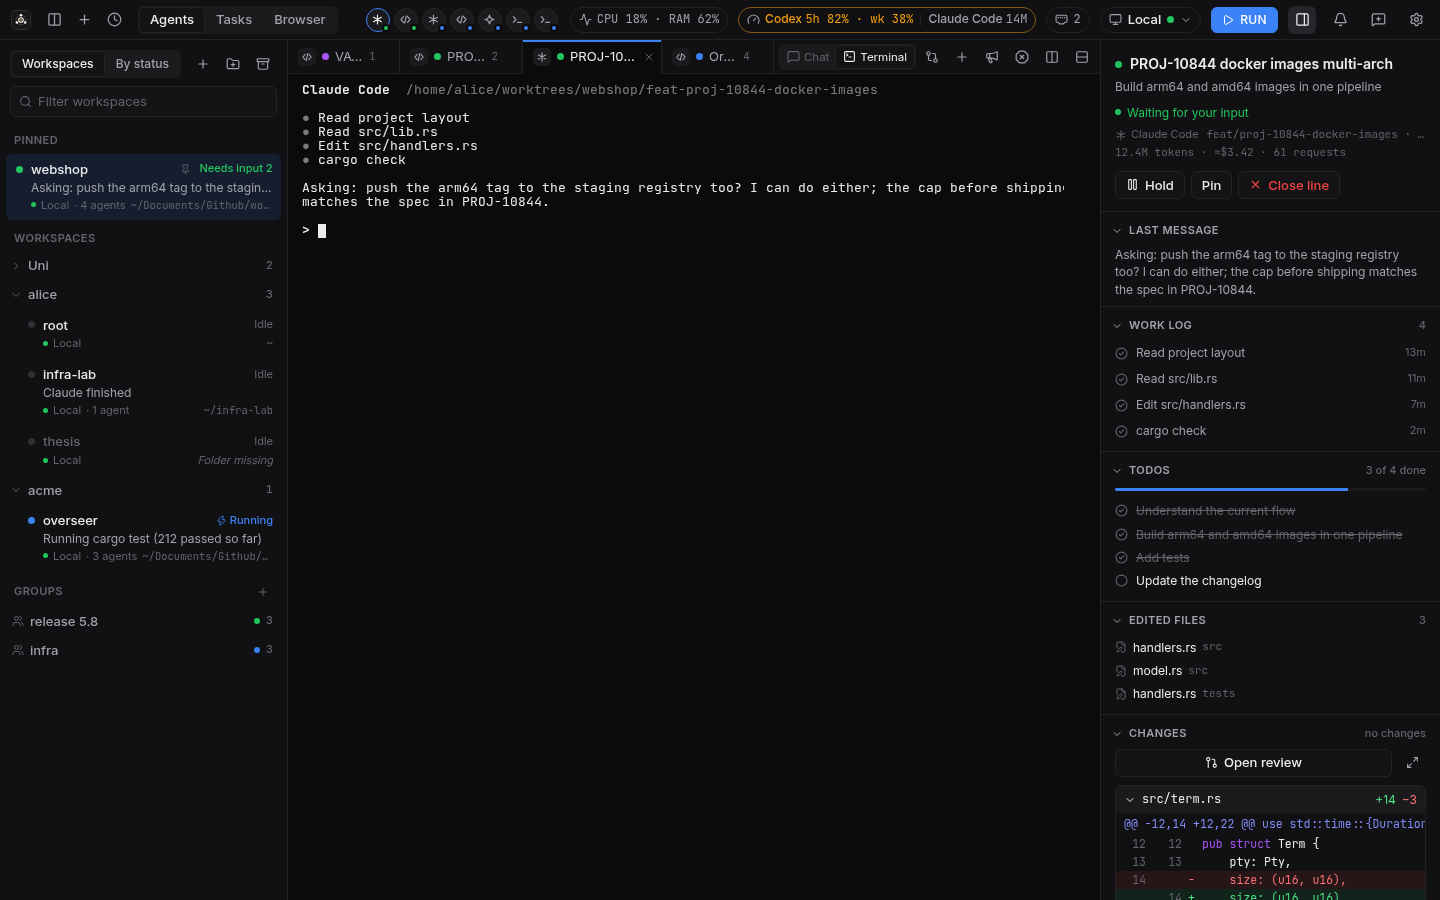
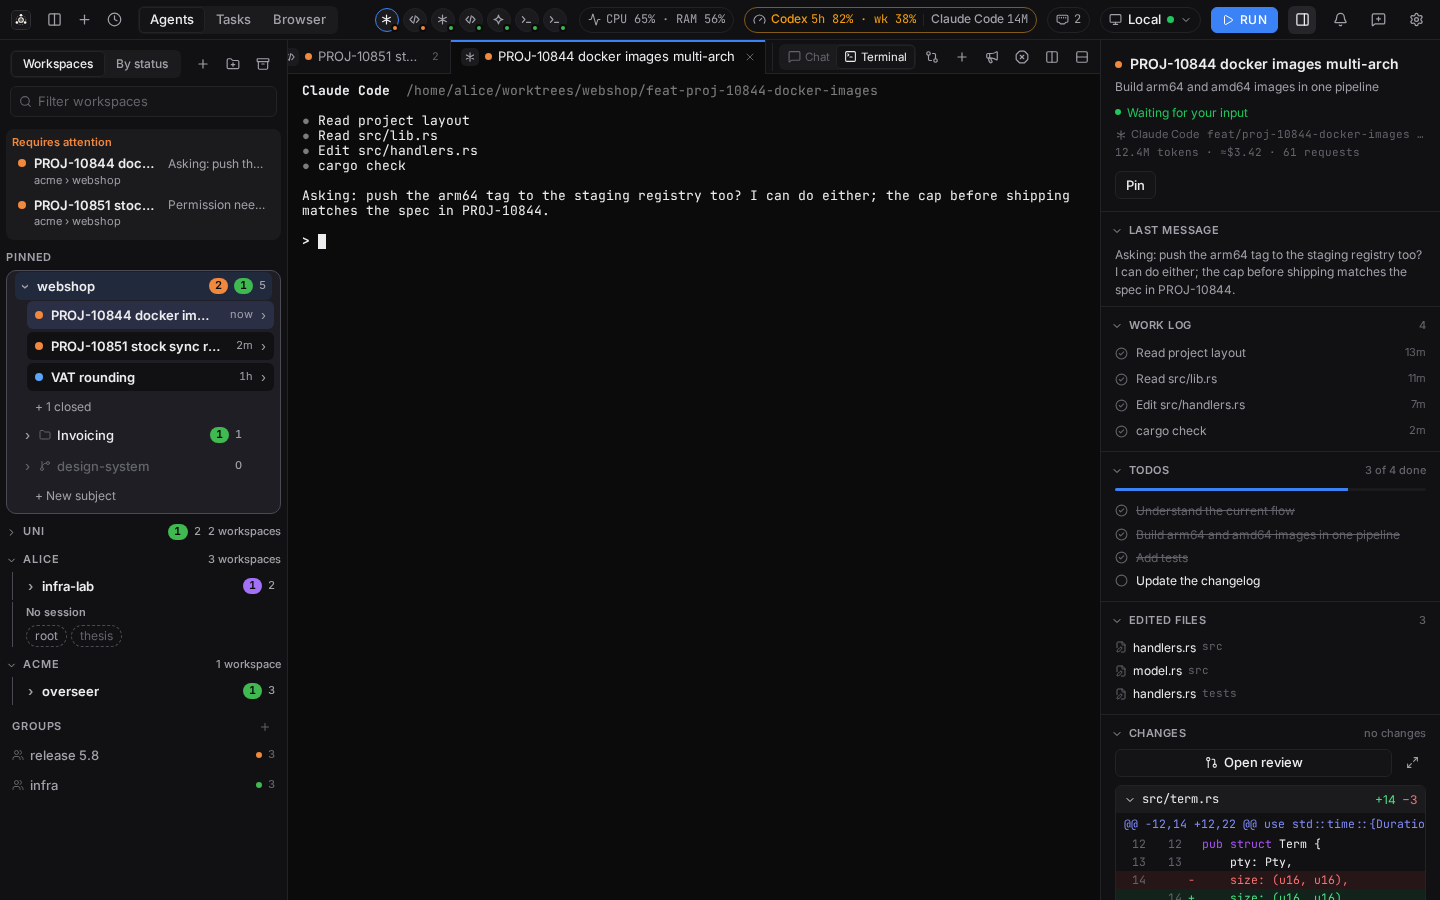
fix(app): keep subjects in view and out of the pin drop zones

diff --git a/app/src/lib/components/sidebar/SpacesView.svelte b/app/src/lib/components/sidebar/SpacesView.svelte
@@ -31,7 +31,8 @@
   const trail = $derived(spaceTrail(app.ws));
   const hk = $derived(hostKey(app.conn.target));
   const saved = $derived(settings.spacesOpen?.[hk]);
-  const opened = $derived(new Set(saved ?? [app.workspaceId]));
+  // The parent of the active nested workspace stays open, so the active one is always in view.
+  const opened = $derived(new Set([...(saved ?? [app.workspaceId]), ...(app.currentWorkspace?.parentId ? [app.currentWorkspace.parentId] : [])]));
   // Every session of a connection runs on that connection's host.
   const host = $derived(hostFor(app.conn));
   const q = $derived(filter.trim());
@@ -155,7 +156,7 @@
       {/if}
     </div>
   {/each}
-  {#if drag.dragging && !pinned}<div class="ghost" data-drop="pinned" class:target={drag.over?.type === 'pinned'}>{t('ws.dropToPin')}</div>{/if}
+  {#if drag.dragging && drag.kind !== 'session' && !pinned}<div class="ghost" data-drop="pinned" class:target={drag.over?.type === 'pinned'}>{t('ws.dropToPin')}</div>{/if}
   {#if !nodes.length}<p class="none faint">{q ? t('common.none') : t('ws.empty')}</p>{/if}
   {#if !q && app.connected}
     <div class="gtitle">
@@ -179,7 +180,7 @@
       </button>
     {/each}
   {/if}
-  {#if drag.dragging}<div class="rootdrop" data-drop="root"></div>{/if}
+  {#if drag.dragging && drag.kind !== 'session'}<div class="rootdrop" data-drop="root"></div>{/if}
 </div>
 
 <style>

diff --git a/app/src/lib/state.test.ts b/app/src/lib/state.test.ts
@@ -748,6 +748,24 @@ describe('workspaces', () => {
     expect(app.workspaceId).toBe('ws_oslabs');
   });
 
+  it('opens a top-level workspace, not a nested one listed first, when none is remembered or busy', async () => {
+    // Given a daemon whose first workspace is nested, with no session anywhere and nothing remembered
+    const at = '2026-11-01T00:00:00Z';
+    const base = { station: 'atlas', kind: 'dir' as const, cwd: null, folderId: null, pinned: false, archived: false, auto: true, rank: 1, tabs: [], notifyIdle: false, createdAt: at, updatedAt: at };
+    (m as unknown as { workspaces: unknown[] }).workspaces = [
+      { ...base, id: 'w_lib', name: 'lib', path: '/p/40/lib', parentId: 'w_proj' },
+      { ...base, id: 'w_proj', name: 'proj', path: '/p', parentId: null },
+    ];
+    (m as unknown as { lines: unknown[] }).lines = [];
+    (m as unknown as { terms: unknown[] }).terms = [];
+    settings.workspaceByHost = {};
+    settings.workspaceId = undefined;
+    // When the app connects
+    await connect();
+    // Then the top-level workspace opens
+    expect(app.workspaceId).toBe('w_proj');
+  });
+
   it('keeps the sidebar mode across launches', () => {
     app.setSidebarMode('status');
     expect(app.sidebarMode).toBe('status');

diff --git a/app/src/lib/spaces.ts b/app/src/lib/spaces.ts
@@ -71,12 +71,13 @@ export function spaces(workspaces: Workspace[], items: SidebarItem[], wsOf: Read
       if (q && !cmine.length && !(wNamed || named(c))) continue;
       children.push({ id: c.id, name: c.name, workspace: c, items: cmine, summary: workspaceSummary(cmine) });
     }
-    const busy = mine.length || children.some((c) => c.items.length);
+    // A workspace with subjects stays a block so they can be seen and started in, even with no session yet.
+    const busy = mine.length || children.length;
     if (busy) {
       const row: SpaceRow = { id: w.id, name: w.name, workspace: w, items: mine, summary: sum([workspaceSummary(mine), ...children.map((c) => c.summary)]) };
       if (children.length) row.children = children;
       rows.push(row);
-    } else if (!all.length && !childAll && (!q || wNamed || children.length)) empty.push(w);
+    } else if (!all.length && !childAll && (!q || wNamed)) empty.push(w);
   }
   const others = narrow(null, by.get('') ?? []);
   if (others.length) rows.push({ id: '', name: null, workspace: null, items: others, summary: workspaceSummary(others) });

diff --git a/app/src/lib/ws-drag.svelte.ts b/app/src/lib/ws-drag.svelte.ts
@@ -41,6 +41,8 @@ const appDeps = (): DragDeps => ({
 export class WsDrag {
   over = $state<DropTarget | null>(null);
   dragging = $state(false);
+  /** What is being dragged, once the drag is under way. */
+  kind = $state<'workspace' | 'folder' | 'session' | null>(null);
   /** True for the click that follows a drag, so releasing over a header does not select or fold it. */
   suppressed = false;
   #deps: DragDeps;
@@ -79,6 +81,7 @@ export class WsDrag {
     if (!d.active && Math.hypot(e.clientX - d.x, e.clientY - d.y) < 5) return;
     d.active = true;
     this.dragging = true;
+    this.kind = d.kind;
     this.over = this.#targetAt(e.clientX, e.clientY);
   };
 
@@ -87,6 +90,7 @@ export class WsDrag {
     const target = this.over;
     this.#drag = null;
     this.dragging = false;
+    this.kind = null;
     this.over = null;
     if (!d?.active) return;
     this.suppressed = true;
@@ -111,6 +115,7 @@ export class WsDrag {
   cancel = () => {
     this.#drag = null;
     this.dragging = false;
+    this.kind = null;
     this.over = null;
   };
 

diff --git a/app/src/lib/spaces.test.ts b/app/src/lib/spaces.test.ts
@@ -406,10 +406,18 @@ describe('spaces with nested workspaces', () => {
     expect(r.rows[0]!.children!.find((c) => c.id === 'n1')!.items).toHaveLength(1);
   });
 
-  it('folds an idle parent into the empty chips without its nested workspaces', () => {
+  it('keeps an idle parent as a block listing its nested workspaces, so they can be started in', () => {
     const r = spaces(all, [], new Map(), '');
+    expect(r.rows.map((x) => x.id)).toEqual(['p']);
+    expect(r.rows[0]!.children!.map((c) => c.id)).toEqual(['n2', 'n1']);
+    expect(r.rows[0]!.summary.total).toBe(0);
+    expect(r.empty.map((w) => w.id)).toEqual(['o']);
+  });
+
+  it('drops an idle parent whose name and nested workspaces miss the filter', () => {
+    const r = spaces(all, [], new Map(), 'zzz');
     expect(r.rows).toEqual([]);
-    expect(r.empty.map((w) => w.id)).toEqual(['p', 'o']);
+    expect(r.empty).toEqual([]);
   });
 
   it('hides nested workspaces with an archived parent and sends their sessions to "other"', () => {

diff --git a/app/src/lib/components/sidebar/SpacesView.test.ts b/app/src/lib/components/sidebar/SpacesView.test.ts
@@ -206,4 +206,13 @@ describe('Sidebar touch menus', () => {
     expect(sidebarSrc).toMatch(/<aside class="sidebar"[^>]*use:touchContextMenu>/);
     expect(sidebarSrc).toMatch(/\.sidebar \{[^}]*-webkit-touch-callout: none/s);
   });
+
+  it('keeps the parent of the active nested workspace open, wires subjects to the same toggles and drags only real workspaces', () => {
+    expect(src).toMatch(/const opened = \$derived\(new Set\(\[\.\.\.\(saved \?\? \[app\.workspaceId\]\), \.\.\.\(app\.currentWorkspace\?\.parentId \? \[app\.currentWorkspace\.parentId\] : \[\]\)\]\)\)/);
+    expect(src).toMatch(/ontoggle: toggle,\s*onpick: pick,\s*onclosed: toggleClosed,/);
+    expect(src).toMatch(/kids=\{kidsFor\(r\.workspace\)\}/);
+    expect(src).toMatch(/drag\.start\(e, 'session', key\)/);
+    expect(src).toMatch(/drag\.dragging && drag\.kind !== 'session' && !pinned/);
+    expect(src).toMatch(/drag\.dragging && drag\.kind !== 'session'\}<div class="rootdrop"/);
+  });
 });

diff --git a/app/src/lib/ws-drag.test.ts b/app/src/lib/ws-drag.test.ts
@@ -175,9 +175,12 @@ describe('WsDrag', () => {
     const { deps, drag } = setup(at({ drop: 'child', id: 'sub' }));
     // When it moves and is released
     drag.start(ev(0, 0), 'session', 'line:l1');
+    expect(drag.kind).toBeNull();
     drag.move(ev(0, 30));
+    expect(drag.kind).toBe('session');
     expect(drag.posOf('workspace', 'sub')).toBe('inside');
     await drag.end();
+    expect(drag.kind).toBeNull();
     // Then the session moves there and no workspace is reordered
     expect(deps.moveSession).toHaveBeenCalledWith('line:l1', 'sub');
     expect(deps.patchWorkspace).not.toHaveBeenCalled();

diff --git a/app/src/lib/state.svelte.ts b/app/src/lib/state.svelte.ts
@@ -353,7 +353,7 @@ class AppState {
     const pref = live.find((w) => w.id === want);
     if (pref) return pref.id;
     const busy = live.filter((w) => this.aggregates.get(w.id)?.agents).sort((a, b) => Number(b.pinned) - Number(a.pinned) || a.rank - b.rank);
-    return (busy[0] ?? live[0])?.id ?? NO_WORKSPACE;
+    return (busy[0] ?? live.find((w) => !w.parentId) ?? live[0])?.id ?? NO_WORKSPACE;
   }
 
   membersOf(workspaceId: string) {
